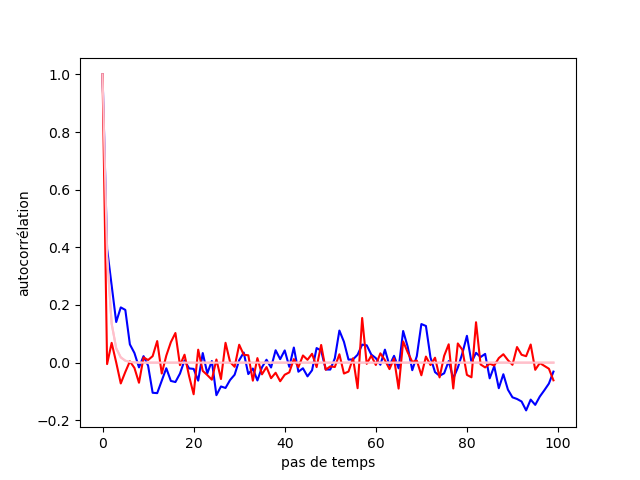
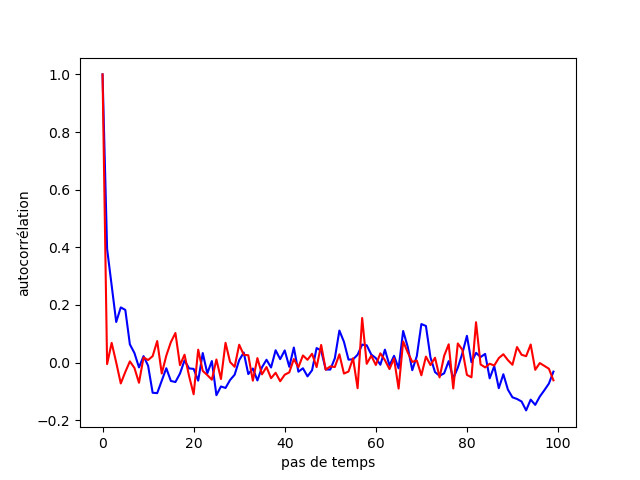
Readme modifié après réunion fuchs

Changed region(s): [[0.1875, 0.75, 0.875, 0.7812], [0.1562, 0.1562, 0.1875, 0.75]]

diff --git a/graphique.py b/graphique.py
@@ -18,6 +18,6 @@ def graphique(corr_dict, file_name, colgraph):
 	for i in range(0,100):
 		xtest.append(i)
 		ytest.append(exp(-i))
-	plt.plot(xtest, ytest,color = "pink" )
+	#plt.plot(xtest, ytest,color = "pink")
 	plt.savefig(file_name)
 	#plt.close()

diff --git a/README.md b/README.md
@@ -32,3 +32,15 @@ Norme : dicAxe = {t0 : {x : 0.23
 ## Autocorrélation rotationnelle
 
 Pour chaque temps thô, calculer la moyenne du produit scalaire de l'axe au temps t avec l'axe au temps t+thô (ce qui revient à calculer le cosinus de l'angle alpha entre les deux axes).
+
+
+Calculer une fonction fittant aux courbes avec scipy et déterminer tau rot (nb la fonction c'est e(- tau / tau rot))
+Pas oublier mail trajectoire 200ns
+Comparer à l'outil gmx rotacf
+Rapport :
+- dire comment on a travaillé
+- justifier les choix de codage
+- comparer à l'outil existant
+- discuter à propos de l'importance de la rotation des molécules
+
+Au cas où, revoir la détermination de cos tau (si la moyenne se fait bien sur toutes les fenêtres)
